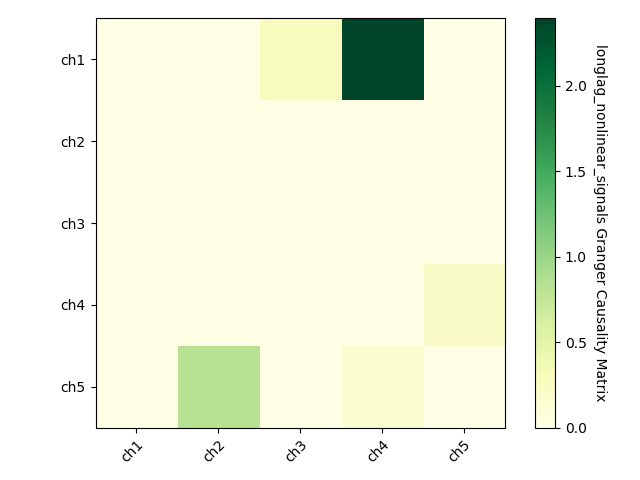
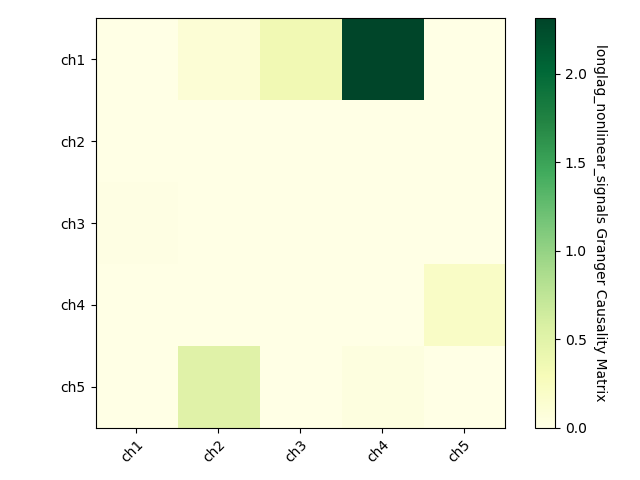
update

diff --git a/RNN_GC.py b/RNN_GC.py
@@ -104,7 +104,7 @@ if __name__ == '__main__':
 
     avg_gc_matrix = 0
     # for signal_type in all_signal_type:
-    signal_type = all_signal_type[0]
+    signal_type = all_signal_type[2]
     print(f'signal type: {signal_type}')
     cfg = config[signal_type]
     for _ in range(cfg['num_trial']):
